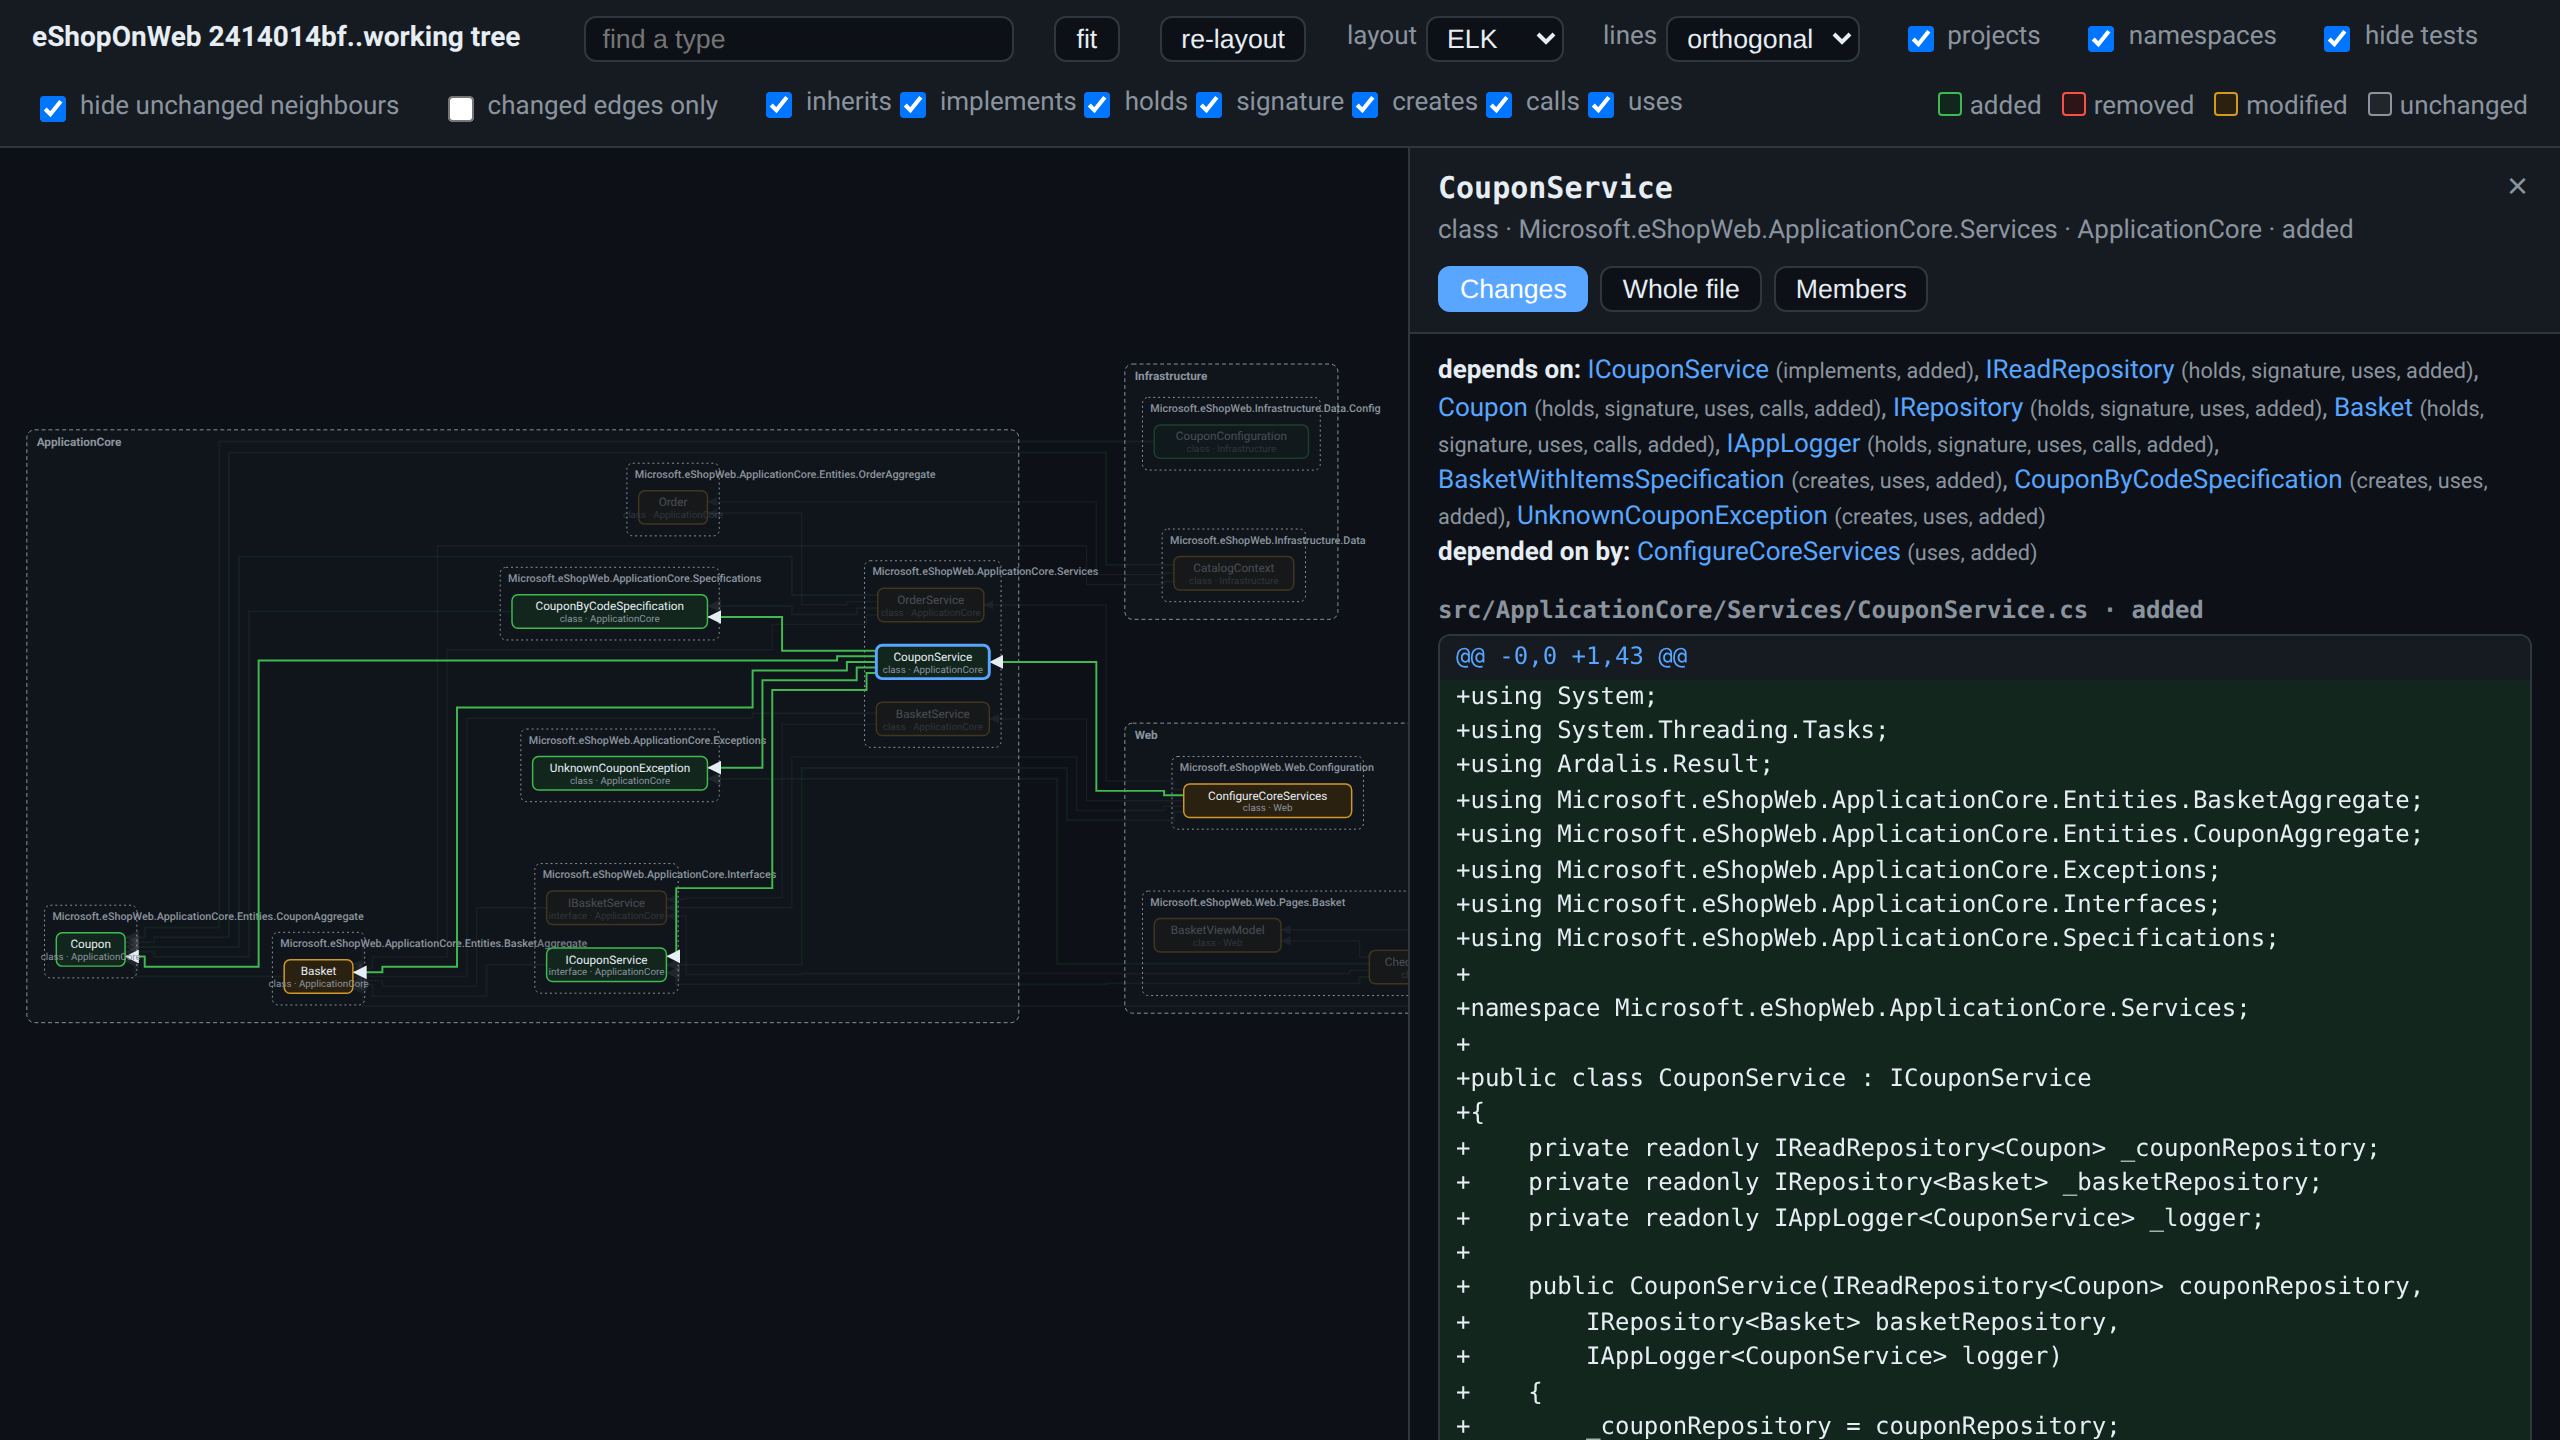
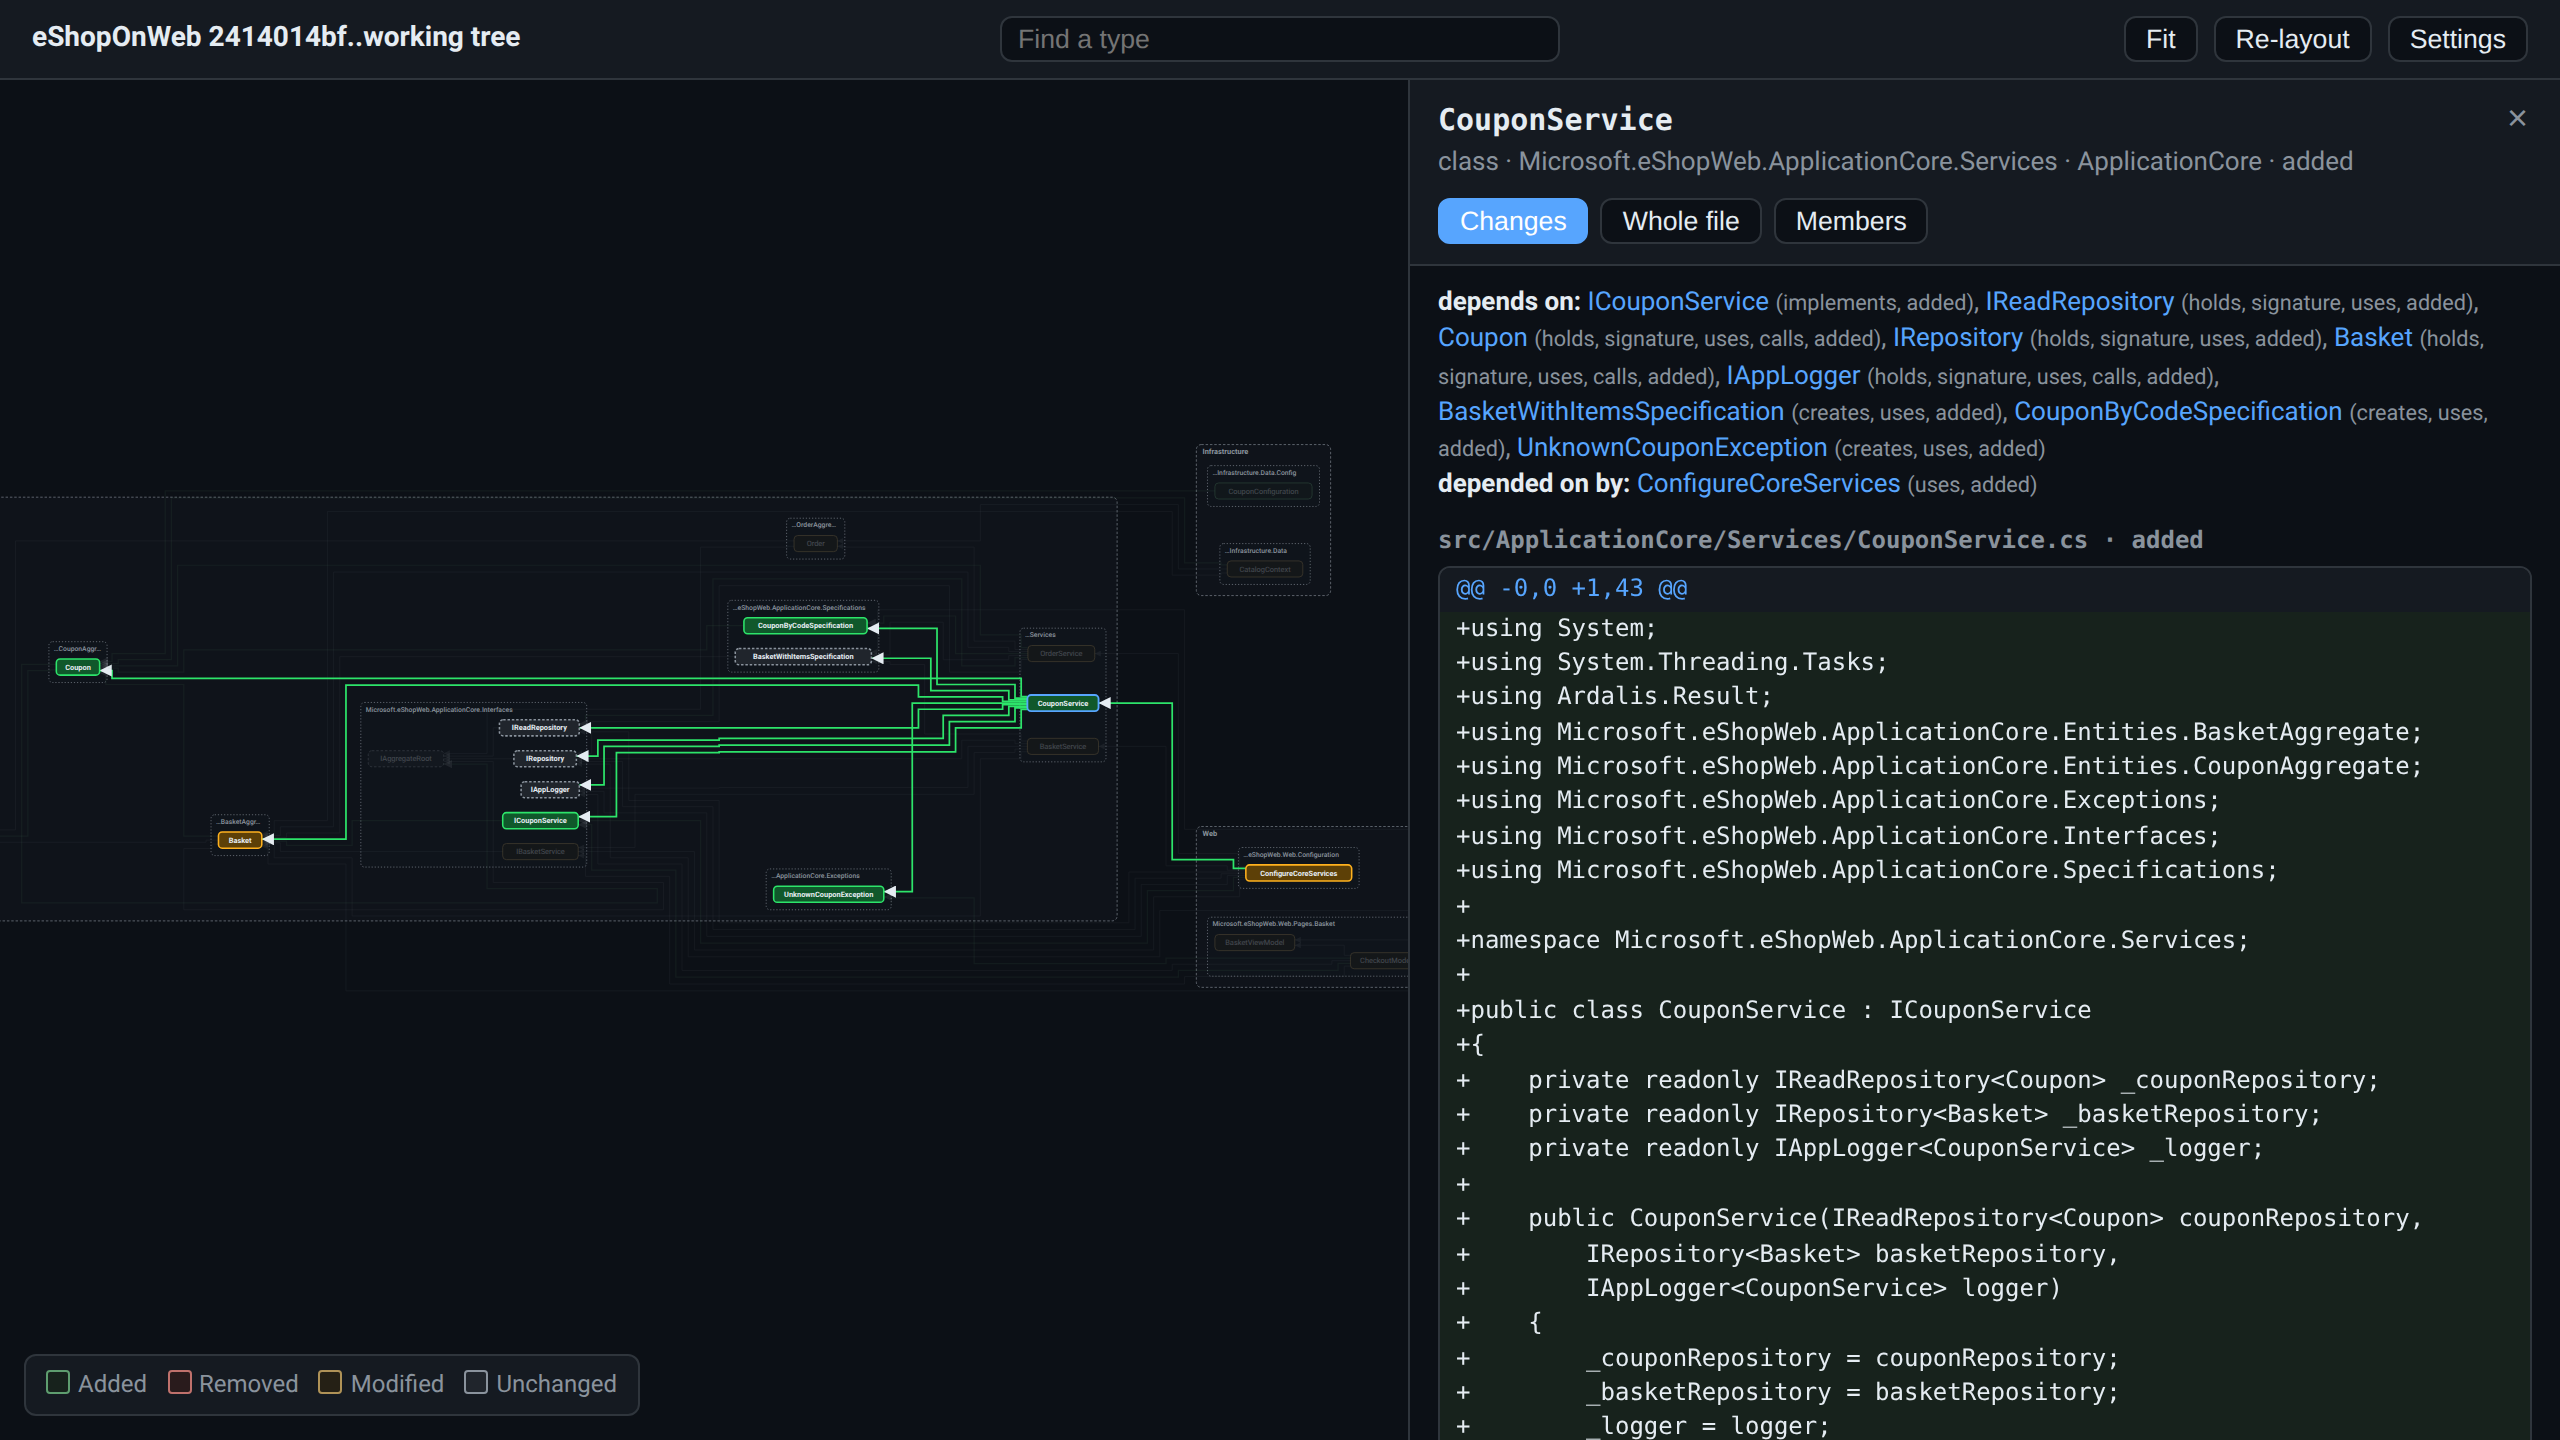
docs(site): screenshots and wording of the 0.13.0 graph
The screenshots showed the old two-row header and colours, and the text
still promised dragged nodes kept across reloads, which 0.12.0 removed.
The four screenshots are retaken on 0.13.0, a fifth shows the Settings
panel on the filtering card, and the filtering text names Settings.

diff --git a/content/_index.md b/content/_index.md
@@ -70,8 +70,11 @@ layout: hextra-home
   >}}
   {{< hextra/feature-card
     title="Filter the noise"
-    icon="adjustments"
-    subtitle="Find a type by name, hide test projects, hide unchanged neighbours, show changed edges only, pick the edge kinds to draw. The graph follows your edits and keeps the nodes where you moved them."
+    subtitle="Find a type by name; the rest of the graph dims. In Settings: hide test projects, hide unchanged neighbours, show changed edges only, pick the edge kinds to draw, switch the boxes, choose the layout and line style."
+    class="hx:aspect-auto hx:md:aspect-[1.1/1] hx:max-md:min-h-[340px]"
+    image="images/screenshots/05-the-graph-settings.png"
+    imageClass="hx:top-[50%] hx:left-[24px] hx:w-[180%] hx:sm:w-[110%] hx:dark:opacity-80"
+    style="background: radial-gradient(ellipse at 50% 80%,rgba(20,184,166,0.15),hsla(0,0%,100%,0));"
   >}}
   {{< hextra/feature-card
     title="Runs locally, uploads nothing"
@@ -107,10 +110,9 @@ layout: hextra-home
 
 **Filtering and navigation**
 
-- Find a type by name.
-- Hide test projects, hide unchanged neighbours, show changed edges only.
-- Pick which edge kinds to draw.
-- Pan, zoom and drag nodes. Positions are kept across reloads; **re-layout** and **fit** reset the view.
+- Find a type by name; types and lines that do not match dim.
+- In **Settings**: hide test projects, hide unchanged neighbours, show changed edges only, pick which edge kinds to draw, switch project and namespace boxes, choose the layout and line style.
+- Pan and zoom. The view is kept across reloads; **Re-layout** and **Fit** reset it.
 
 **In Rider**
 

diff --git a/content/docs/how-it-works.md b/content/docs/how-it-works.md
@@ -14,6 +14,7 @@ the cache. Only the projects holding changed files are compiled.
 ![One type and what depends on it](/images/screenshots/02-one-type-and-what-depends-on-it.png)
 ![The same diff as the Commit view](/images/screenshots/03-the-same-diff-as-the-commit-view.png)
 ![Stage from the graph](/images/screenshots/04-stage-from-the-graph.png)
+![The graph settings](/images/screenshots/05-the-graph-settings.png)
 
 ## Limits
 

diff --git a/content/docs/getting-started.md b/content/docs/getting-started.md
@@ -41,7 +41,7 @@ Right-click a type or an edge → **Stage** / **Unstage**. The badges show what 
 
 ### Cut the noise
 
-Hide tests, hide unchanged neighbours, show changed edges only, pick edge kinds, or find a type by name.
+Find a type by name in the header. Under **Settings**: hide tests, hide unchanged neighbours, show changed edges only, pick edge kinds.
 
 {{% /steps %}}
 
